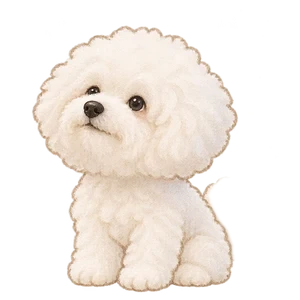
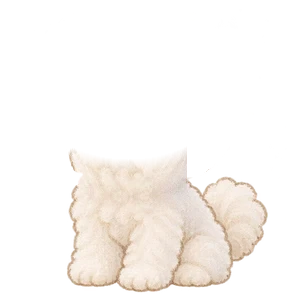
おやつキャッチ: 頭だけの絵を重ねて動かす方式に（体・背中は動かさず、頭の下は胸の毛でうめる）
Claude-Session: https://claude.ai/code/session_01C8PtLD8WphwBjzXta7cLWT

Changed region(s): [[0.09, 0.09, 0.81, 0.63], [0.69, 0.57, 0.9, 0.87]]

diff --git a/lab/oyatsu/index.html b/lab/oyatsu/index.html
@@ -78,6 +78,11 @@ function warpSprite(src,W,hx,hy,tl,wag){
    off(dx,dy);let sx=dx-o[0],sy=dy-o[1];off(sx,sy);sx=Math.round(dx-o[0]);sy=Math.round(dy-o[1]);
    wout[row+X]=(sx>=0&&sx<300&&sy>=0&&sy<300)?src[sy*300+sx]:0}}
  wgx.putImageData(wimg,0,0);return wcv}
+
+// 頭だけの絵・頭の下をうめた体の絵（ポーズごと）
+const LAY={},ZW={wx:new Float32Array(90000),wy:new Float32Array(90000)};
+for(const k of ['moon','coron'])for(let i=0;i<5;i++){const h=new Image(),b=new Image();h.src='img/'+k+'_'+i+'_head.webp';b.src='img/'+k+'_'+i+'_body.webp';LAY[k+'_'+i]={head:h,body:b}}
+{const h=new Image(),b=new Image();h.src='img/moon_0b_head.webp';b.src='img/moon_0b_body.webp';LAY['moon_0b']={head:h,body:b}}
 const sprOK=k=>SPR[k]&&SPR[k].every(im=>im.complete&&im.naturalWidth);let mood='',fastT=-1e9,catchP=null;
 // スキン（ゲームセンター共通の mc_vt）
 const SKINS=[['natural','ナチュラル'],['retro','レトロ'],['neon','ネオン']];
@@ -244,7 +249,7 @@ function drawDog(d,near,caught){const k=DOG[d.k],g=dogGeo(d),moon=d.k==='moon';l
     mx0=d.x-d.f*lmx,my0=base-S+mo[1]*S/300;
    if(caught&&catchP){const e=now-caughtT;tg=catchP;wt=e<70?1:Math.max(0,1-(e-70)/220)}
    else if(near){const ds=Math.hypot(near.x-mx0,near.y-my0);tg=near;wt=Math.max(0,Math.min(1,(62-ds)/34))}
-   if(tg&&wt>0){hx+=Math.max(-9,Math.min(9,-d.f*(tg.x-mx0)))*wt;hy+=Math.max(-8,Math.min(8,tg.y-my0))*wt}}
+   if(tg&&wt>0){hx+=Math.max(-8,Math.min(8,-d.f*(tg.x-mx0)))*wt;hy+=Math.max(-8,Math.min(8,tg.y-my0))*wt}}
   // 動かす量＝頭の移動量 ×（たて方向の重み）×（よこ方向の重み）。頭からはなれた背中・しっぽ側は動かさない
   const NK=NECK[d.k],HB=HEADX[d.k],YF=285,BS=.3,
    Vw=sy=>sy<=NK[0]?1:sy<NK[1]?1+(BS-1)*(sy-NK[0])/(NK[1]-NK[0]):BS*Math.max(0,(YF-sy)/(YF-NK[1])),
@@ -252,9 +257,14 @@ function drawDog(d,near,caught){const k=DOG[d.k],g=dogGeo(d),moon=d.k==='moon';l
   x.save();x.translate(d.x,d.y-jy+S*20/760);if(d.f>0)x.scale(-1,1);
   const mtail=d.k==='moon'&&fr===0&&mtOK(),im=mtail?MT.body:SPR[d.k][fr],tl=fr===0?TAIL[d.k]:null,K=300/S,wag=tl?tl.A*Math.sin(T*9):0;
   // 1ピクセルずつずらして描く（つなぎ目が出ない）
-  const WM=weightMap(d.k),wc=warpSprite(srcPix(d.k+'_'+fr+(mtail?'b':''),im),WM,hx*K,hy*K,tl,wag);
-  x.drawImage(wc,-S/2-WPAD/K,-S-WPAD/K,WOUT/K,WOUT/K);
-  if(mtail){const [px,py]=MT.PIV,n=py*300+px;x.save();x.translate(-S/2+px*S/300+hx*WM.wx[n],-S+py*S/300+hy*WM.wy[n]);x.rotate(.09*Math.sin(T*9));x.drawImage(MT.tail,-px*S/300,-py*S/300,S,S);x.restore()}
+  // 体の絵はそのまま（背中の形は変えない）、頭だけの絵を上に重ねて動かす
+  const LK=d.k+'_'+fr+(mtail?'b':''),L=LAY[LK];
+  if(L&&L.head.complete&&L.head.naturalWidth&&L.body.complete&&L.body.naturalWidth){
+   if(tl){const wc=warpSprite(srcPix(LK+'B',L.body),ZW,0,0,tl,wag);x.drawImage(wc,-S/2-WPAD/K,-S-WPAD/K,WOUT/K,WOUT/K)}else x.drawImage(L.body,-S/2,-S,S,S);
+   if(mtail){const [px,py]=MT.PIV;x.save();x.translate(-S/2+px*S/300,-S+py*S/300);x.rotate(.09*Math.sin(T*9));x.drawImage(MT.tail,-px*S/300,-py*S/300,S,S);x.restore()}
+   x.drawImage(L.head,-S/2+hx,-S+hy,S,S)}
+  else{const WM=weightMap(d.k),wc=warpSprite(srcPix(LK,im),WM,hx*K,hy*K,tl,wag);x.drawImage(wc,-S/2-WPAD/K,-S-WPAD/K,WOUT/K,WOUT/K);
+   if(mtail){const [px,py]=MT.PIV,n=py*300+px;x.save();x.translate(-S/2+px*S/300+hx*WM.wx[n],-S+py*S/300+hy*WM.wy[n]);x.rotate(.09*Math.sin(T*9));x.drawImage(MT.tail,-px*S/300,-py*S/300,S,S);x.restore()}}
   x.restore();return}
  const col=moon?'#fbfbf8':'#e0a66b',dark=moon?'#e3ded3':'#b8763d';
  // からだ
